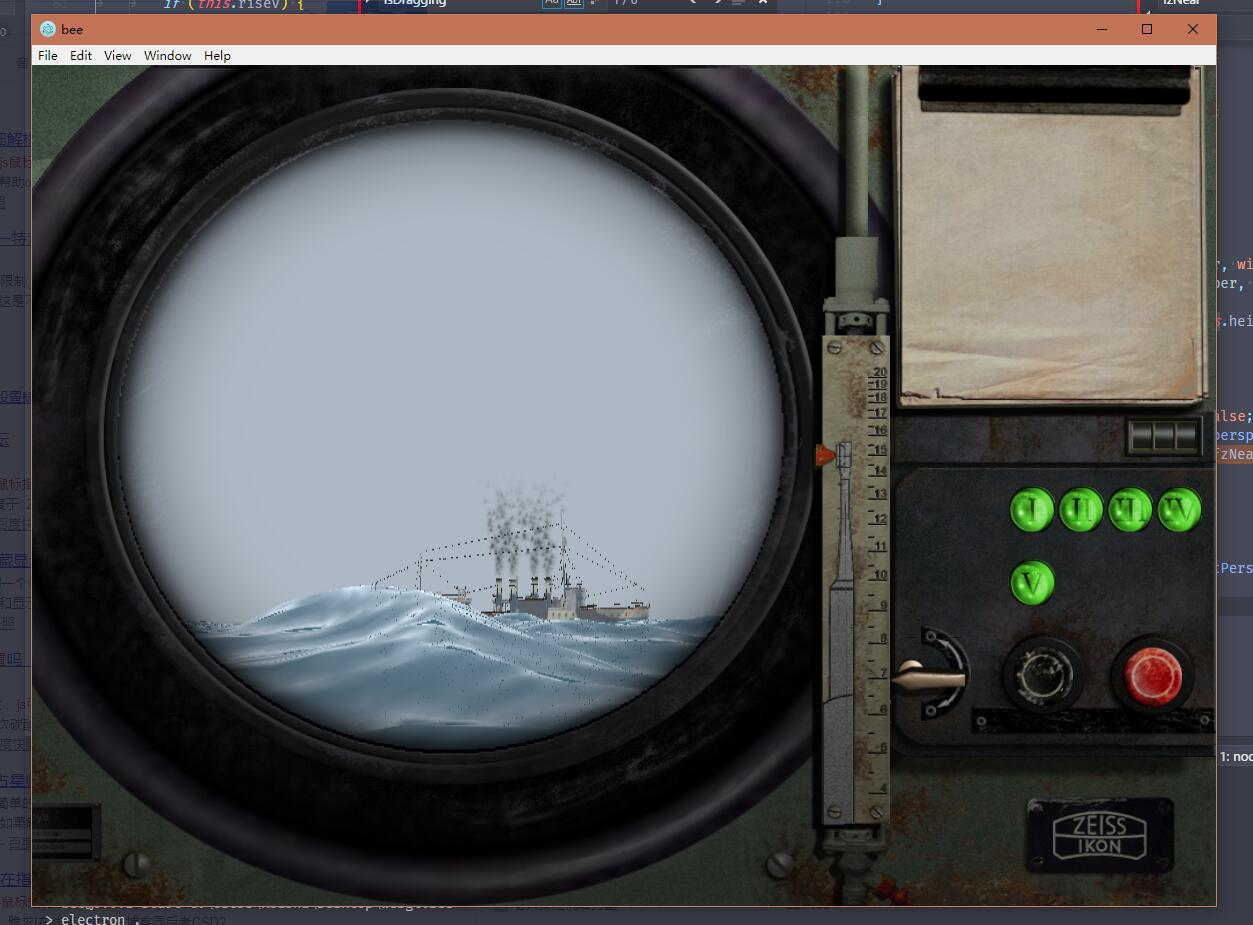
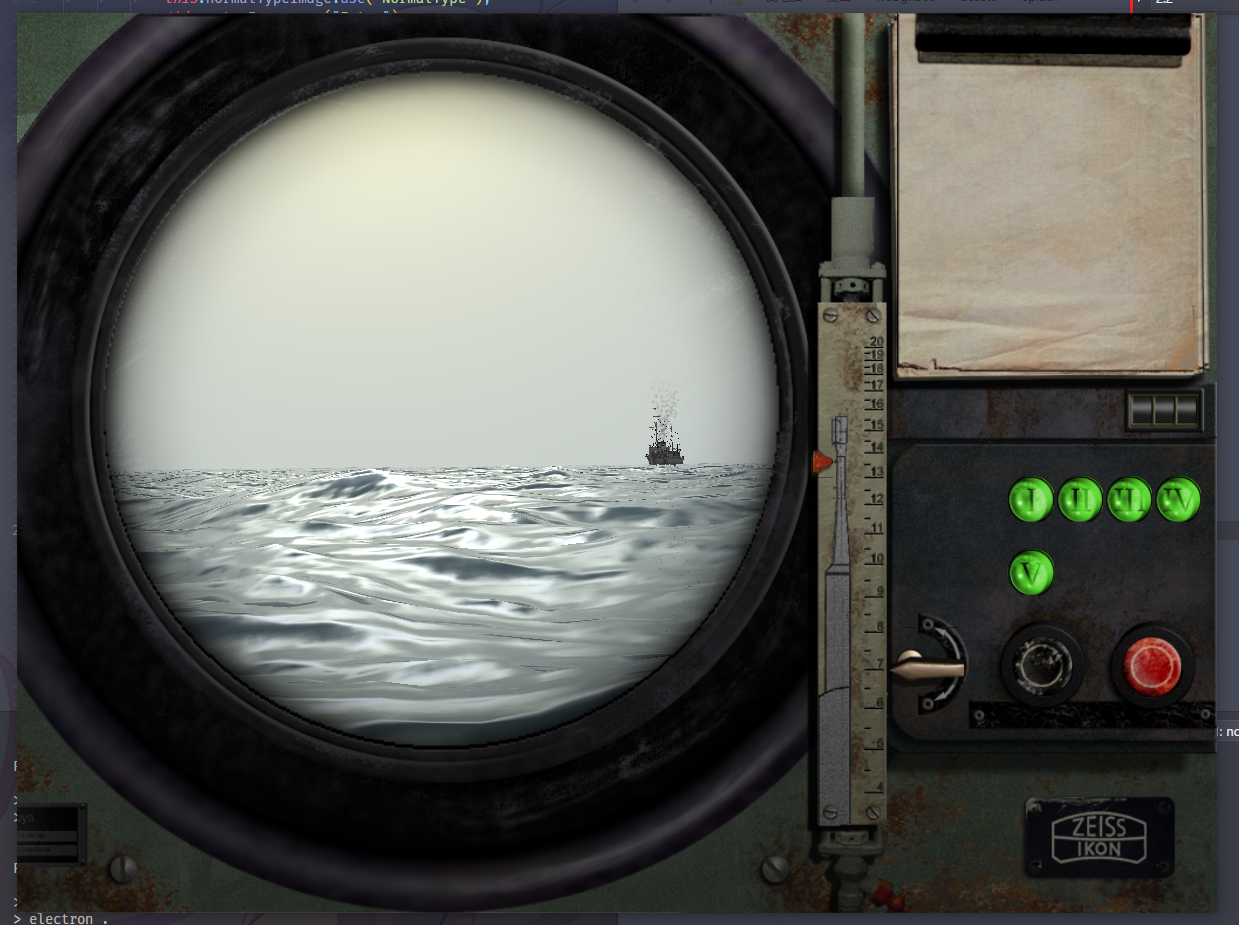
modify readme

diff --git a/README.md b/README.md
@@ -10,9 +10,18 @@ Koishi chan likes bee. \>w<
 
 ![](docs/ambient.png)
 
+## Sea
+![](docs/sea.png)
+
 ## Periscope
 
 ![](docs/periscope.jpg)
+
+![](docs/lens-blur.png)
+
+## Torpedo
+
+![](docs/torpedo.png)
 
 ![](docs/explosion.png)
 
@@ -21,6 +30,10 @@ Koishi chan likes bee. \>w<
 ![](docs/underwater.png)
 
 ![](docs/gradient.png)
+
+## Beautiful Splash Screen \>w<
+
+![](docs/splash.png)
 
 ## Phillips Spectrum
 
@@ -83,8 +96,8 @@ Koishi chan likes bee. \>w<
 - [X] AABB
 - [X] Dynamics
 - [X] Explosion
-- [ ] Beautiful Splash Screens \>w<
-- [X] Periscope Blurring
+- [X] Beautiful Splash Screens \>w<
+- [X] Periscope Lens Blurring
 - [X] Torpedo / Vessel Tracks
 > - [ ] Make Them Pretty
 - [ ] Bow Wave
